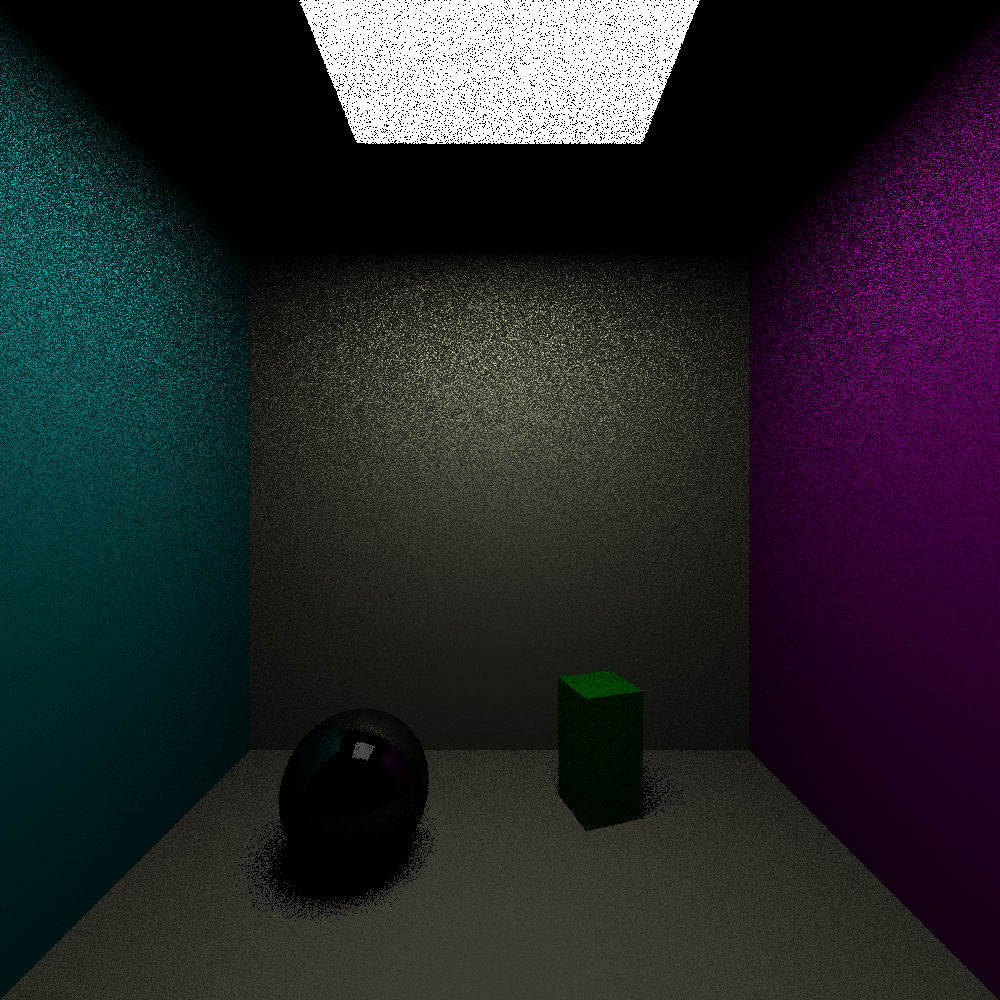
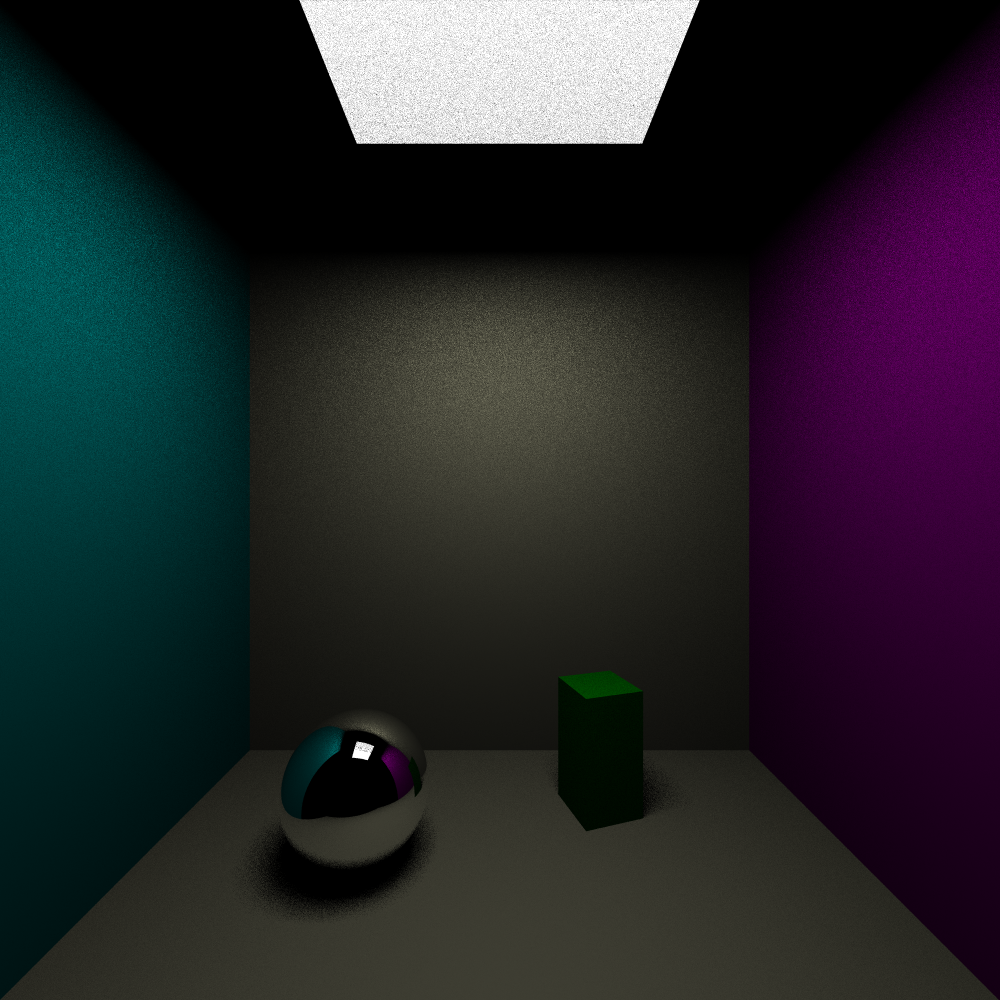
fix mirrors in direct light integrator

diff --git a/src/tracer/integrators.rs b/src/tracer/integrators.rs
@@ -57,12 +57,15 @@ impl Integrator for DirectLightingIntegrator {
             None => DVec3::new(0.0, 1.0, 0.0),
             Some(h) => {
                 let material = h.object.material();
-                material.emit(&h)
-                    + material.albedo_at(h.p)
-                    * self.light_at(&h)
-                    * material.bsdf(&h, r).map_or(DVec3::ONE, |r: Ray| {
-                        self.integrate(&r, depth+1)
-                    })
+                match material.bsdf(&h, r) {
+                    Some(sr) => self.integrate(&sr, depth + 1),
+                    None => {
+                        material.emit(&h)
+                            + material.albedo_at(h.p)
+                            * self.light_at(&h)
+
+                    }
+                }
             }
         }
     }
